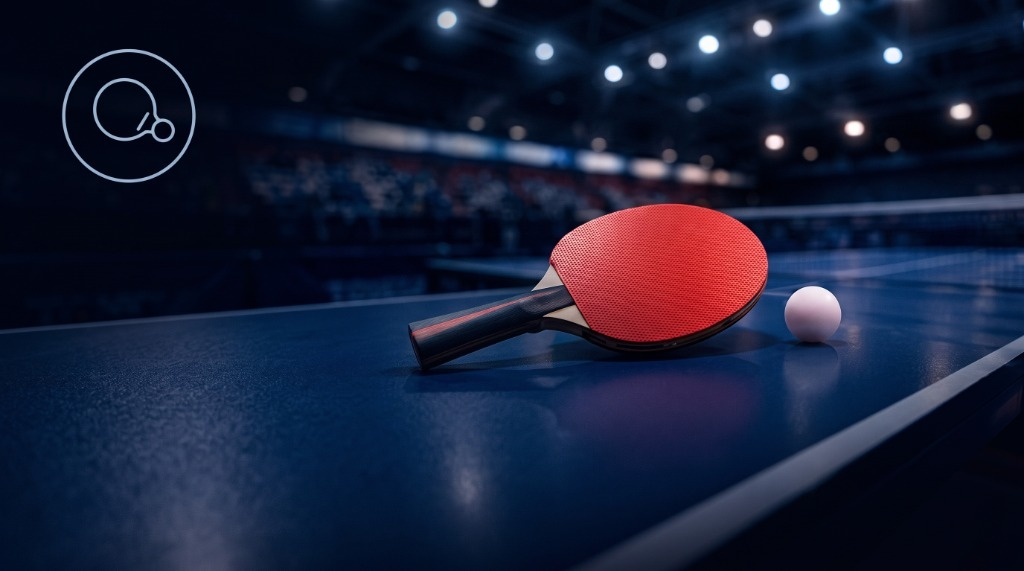
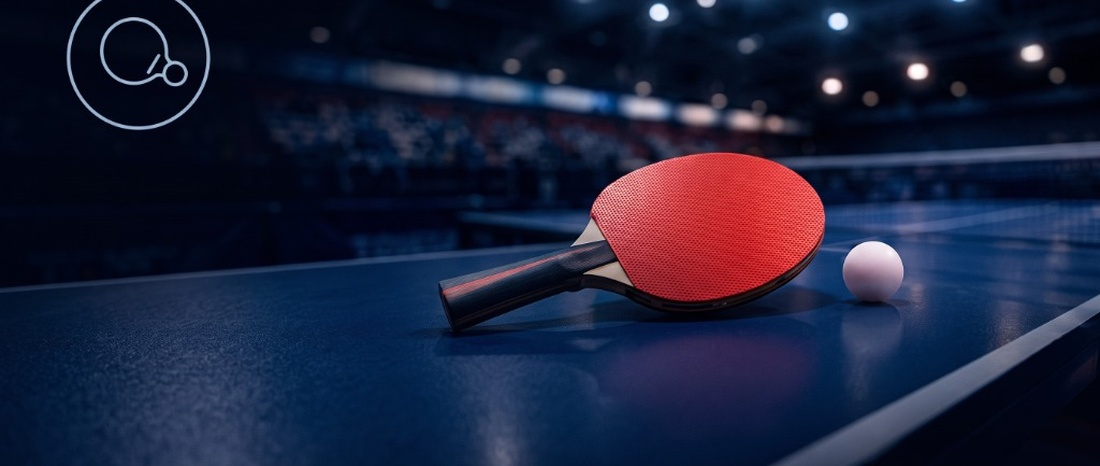
Exact 1-to-1 natural aspect ratios for 5 games cards matching Slide 2

diff --git a/index.html b/index.html
@@ -707,10 +707,10 @@
     }
 
     .games-grid-top .game-card-img-box {
-      height: 190px;
+      height: auto;
     }
     .games-grid-bottom .game-card-img-box {
-      height: 220px;
+      height: auto;
     }
 
     .game-card-body {
